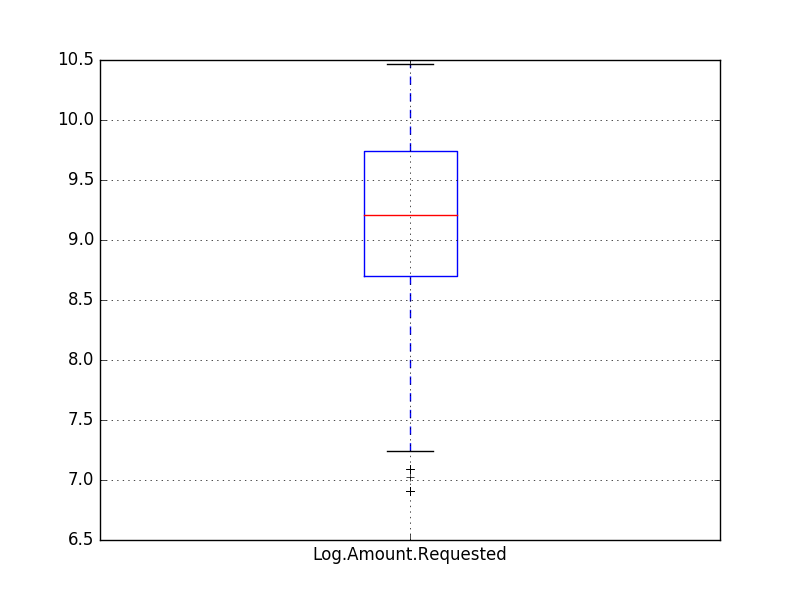
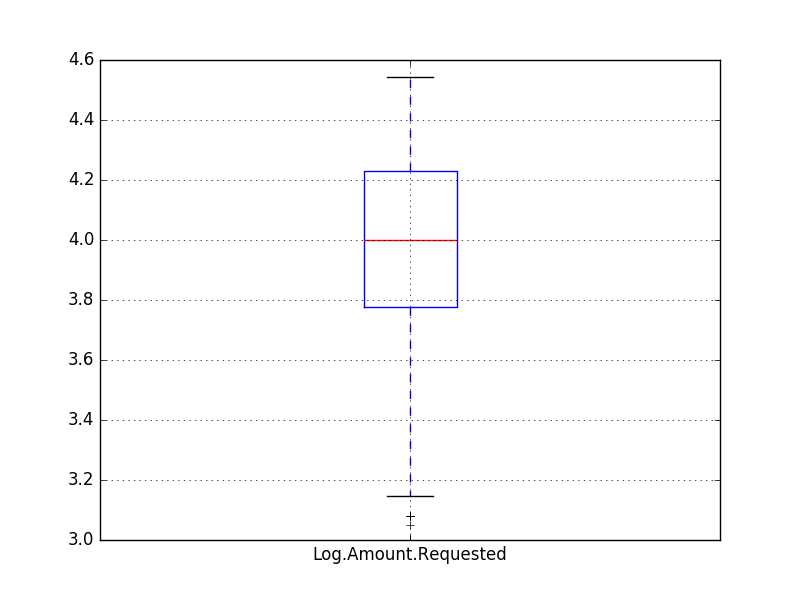
add log10 comments

diff --git a/prob_lending_club.py b/prob_lending_club.py
@@ -48,9 +48,9 @@ plt.savefig(plotdir+'AmountRequestProbplot.png')
 
 
 # try log plots
-loansData['Log.Amount.Requested'] = np.log(loansData['Amount.Requested'])
-# loansData['Log.Amount.Funded'] = np.log(loansData['Amount.Funded.By.Investors'])
-# Amount.Funded may be zero
+loansData['Log.Amount.Requested'] = np.log10(loansData['Amount.Requested'])
+# loansData['Log.Amount.Funded'] = np.log10(loansData['Amount.Funded.By.Investors'])
+# Amount.Funded may be zero, cannot take log
 
 plt.clf()
 loansData.boxplot(column='Log.Amount.Requested')
@@ -65,5 +65,5 @@ plt.savefig(plotdir+'LogAmountRequestHistogram.png')
 plt.clf()
 graph = stats.probplot(loansData['Log.Amount.Requested'], dist="norm", plot=plt)
 plt.savefig(plotdir+'LogAmountRequestProbplot.png')
-# QQplot shows no curvature plus flat top, flat bottom
+# QQplot shows little curvature, flat top (max 35000), flat bottom (min 1000)
 
